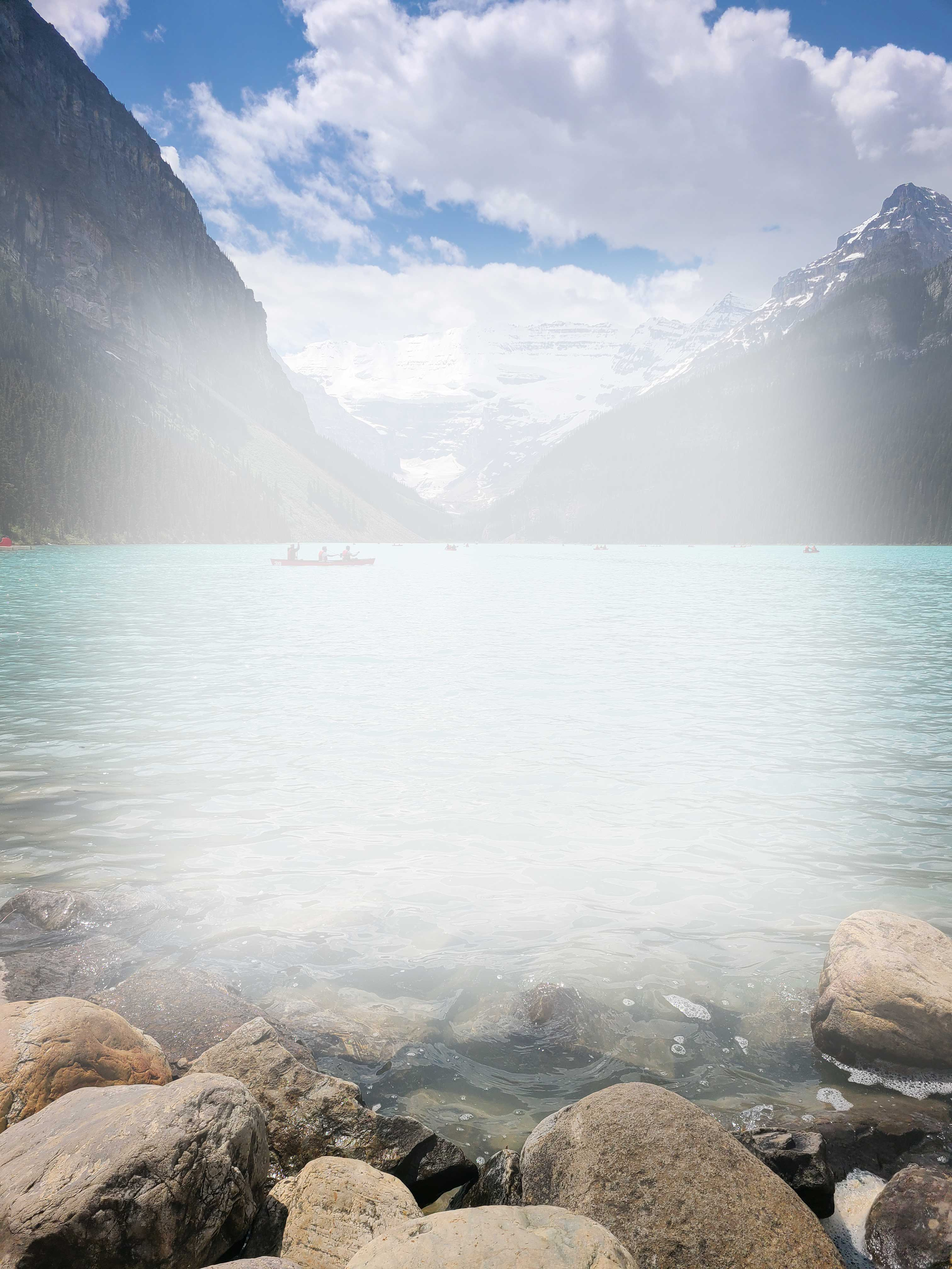
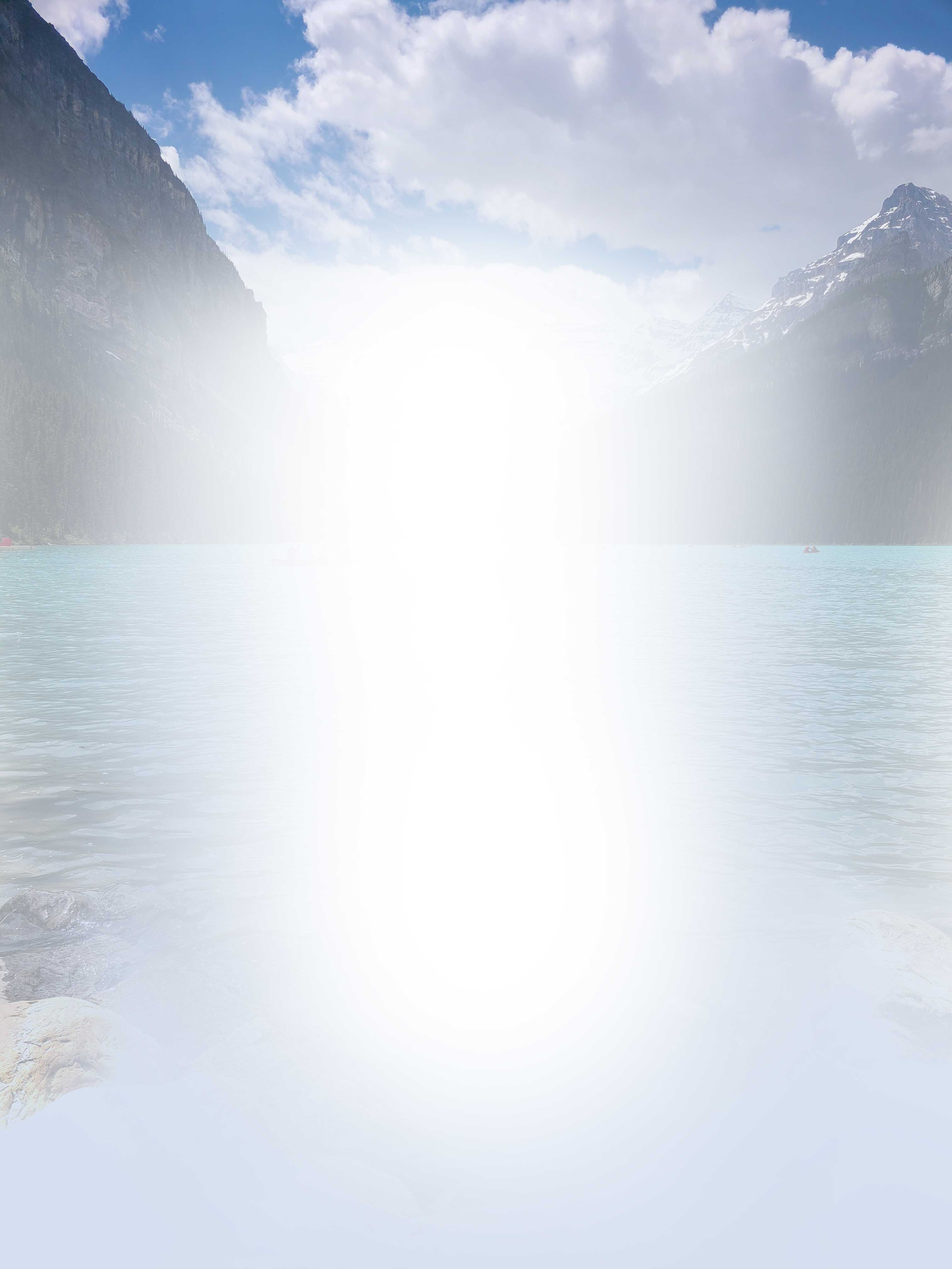
bg4

diff --git a/pages/awards.jsx b/pages/awards.jsx
@@ -3,16 +3,28 @@ import styled from "styled-components";
 
 const Container = styled.div`
     padding-top: 55px;
+    text-align: center;
+    h3 {
+        font-size: 40px;
+        font-weight: bold;
+        margin-bottom: 10px;
+    }
 `;
 
 const AwardsContainer = styled.div`
     display: flex;
-    flex-direction: column;
+    flex-direction: row;
+    flex-wrap: wrap;
     justify-content: space-between;
+    text-align: center;
+    gap: 10px;
 `;
 
 const Award = styled.div`
     padding-bottom: 15px;
+    width: 30%;
+    /* background-color: rgba(255, 255, 255, 0.5); */
+    border: 1px solid rgba(255, 255, 255, 0.9);
 `;
 
 const Awards = () => {
@@ -130,14 +142,14 @@ const Awards = () => {
 
     return (
         <Container>
+            <h3>Awards</h3>
             <AwardsContainer>
-                <h3>Awards</h3>
                 {awards.map((award, index) => {
                     return (
                         <Award key={index}>
-                            <p>{award.honor}</p>
+                            <p className="honor">{award.honor}</p>
+                            <p className="year">{award.year}</p>
                             <p>{award.institution}</p>
-                            <p>{award.year}</p>
                         </Award>
                     );
                 })}

diff --git a/pages/education.jsx b/pages/education.jsx
@@ -15,8 +15,8 @@ const Container = styled.div`
     padding-top: 45px;
     padding: 0 10px;
     /* position: relative; */
-    @media (max-width: 750px) {
-        /* padding: 0; */
+    @media (min-width: 750px) {
+        padding: 0 35px;
     }
     h1 {
         text-align: center;

diff --git a/pages/humanrights.jsx b/pages/humanrights.jsx
@@ -10,8 +10,8 @@ import yuri from "../public/pictures/yuri.png";
 
 const Container = styled.div`
     padding: 0 16px;
-    @media (max-width: 750px) {
-        /* padding: 0; */
+    @media (min-width: 750px) {
+        padding: 0 35px;
     }
     h1 {
         text-align: center;

diff --git a/styles/index.css b/styles/index.css
@@ -9,7 +9,7 @@
     padding-top: 10px;
   }
   .background {
-    background-image: url("/homePage/bgWhite3.jpg");
+    background-image: url("/homePage/bgWhite2.jpg");
     background-size: cover;
     background-position: center;
 }

diff --git a/src/components/VideoBar.js b/src/components/VideoBar.js
@@ -25,7 +25,7 @@ const VideoContainer = styled.div`
         }
     }
     .bg {
-        background-color: rgba(255, 255, 255, 0.5);
+        /* background-color: rgba(255, 255, 255, 0.5); */
     }
     /* width: 100%; */
 `;

diff --git a/src/components/Footer.jsx b/src/components/Footer.jsx
@@ -8,7 +8,7 @@ import {
 import styled from "styled-components";
 
 const Container = styled.div`
-    background-color: #f2f2f2;
+    /* background-color: #f2f2f2; */
     padding: 20px;
 
     .social-icons {
